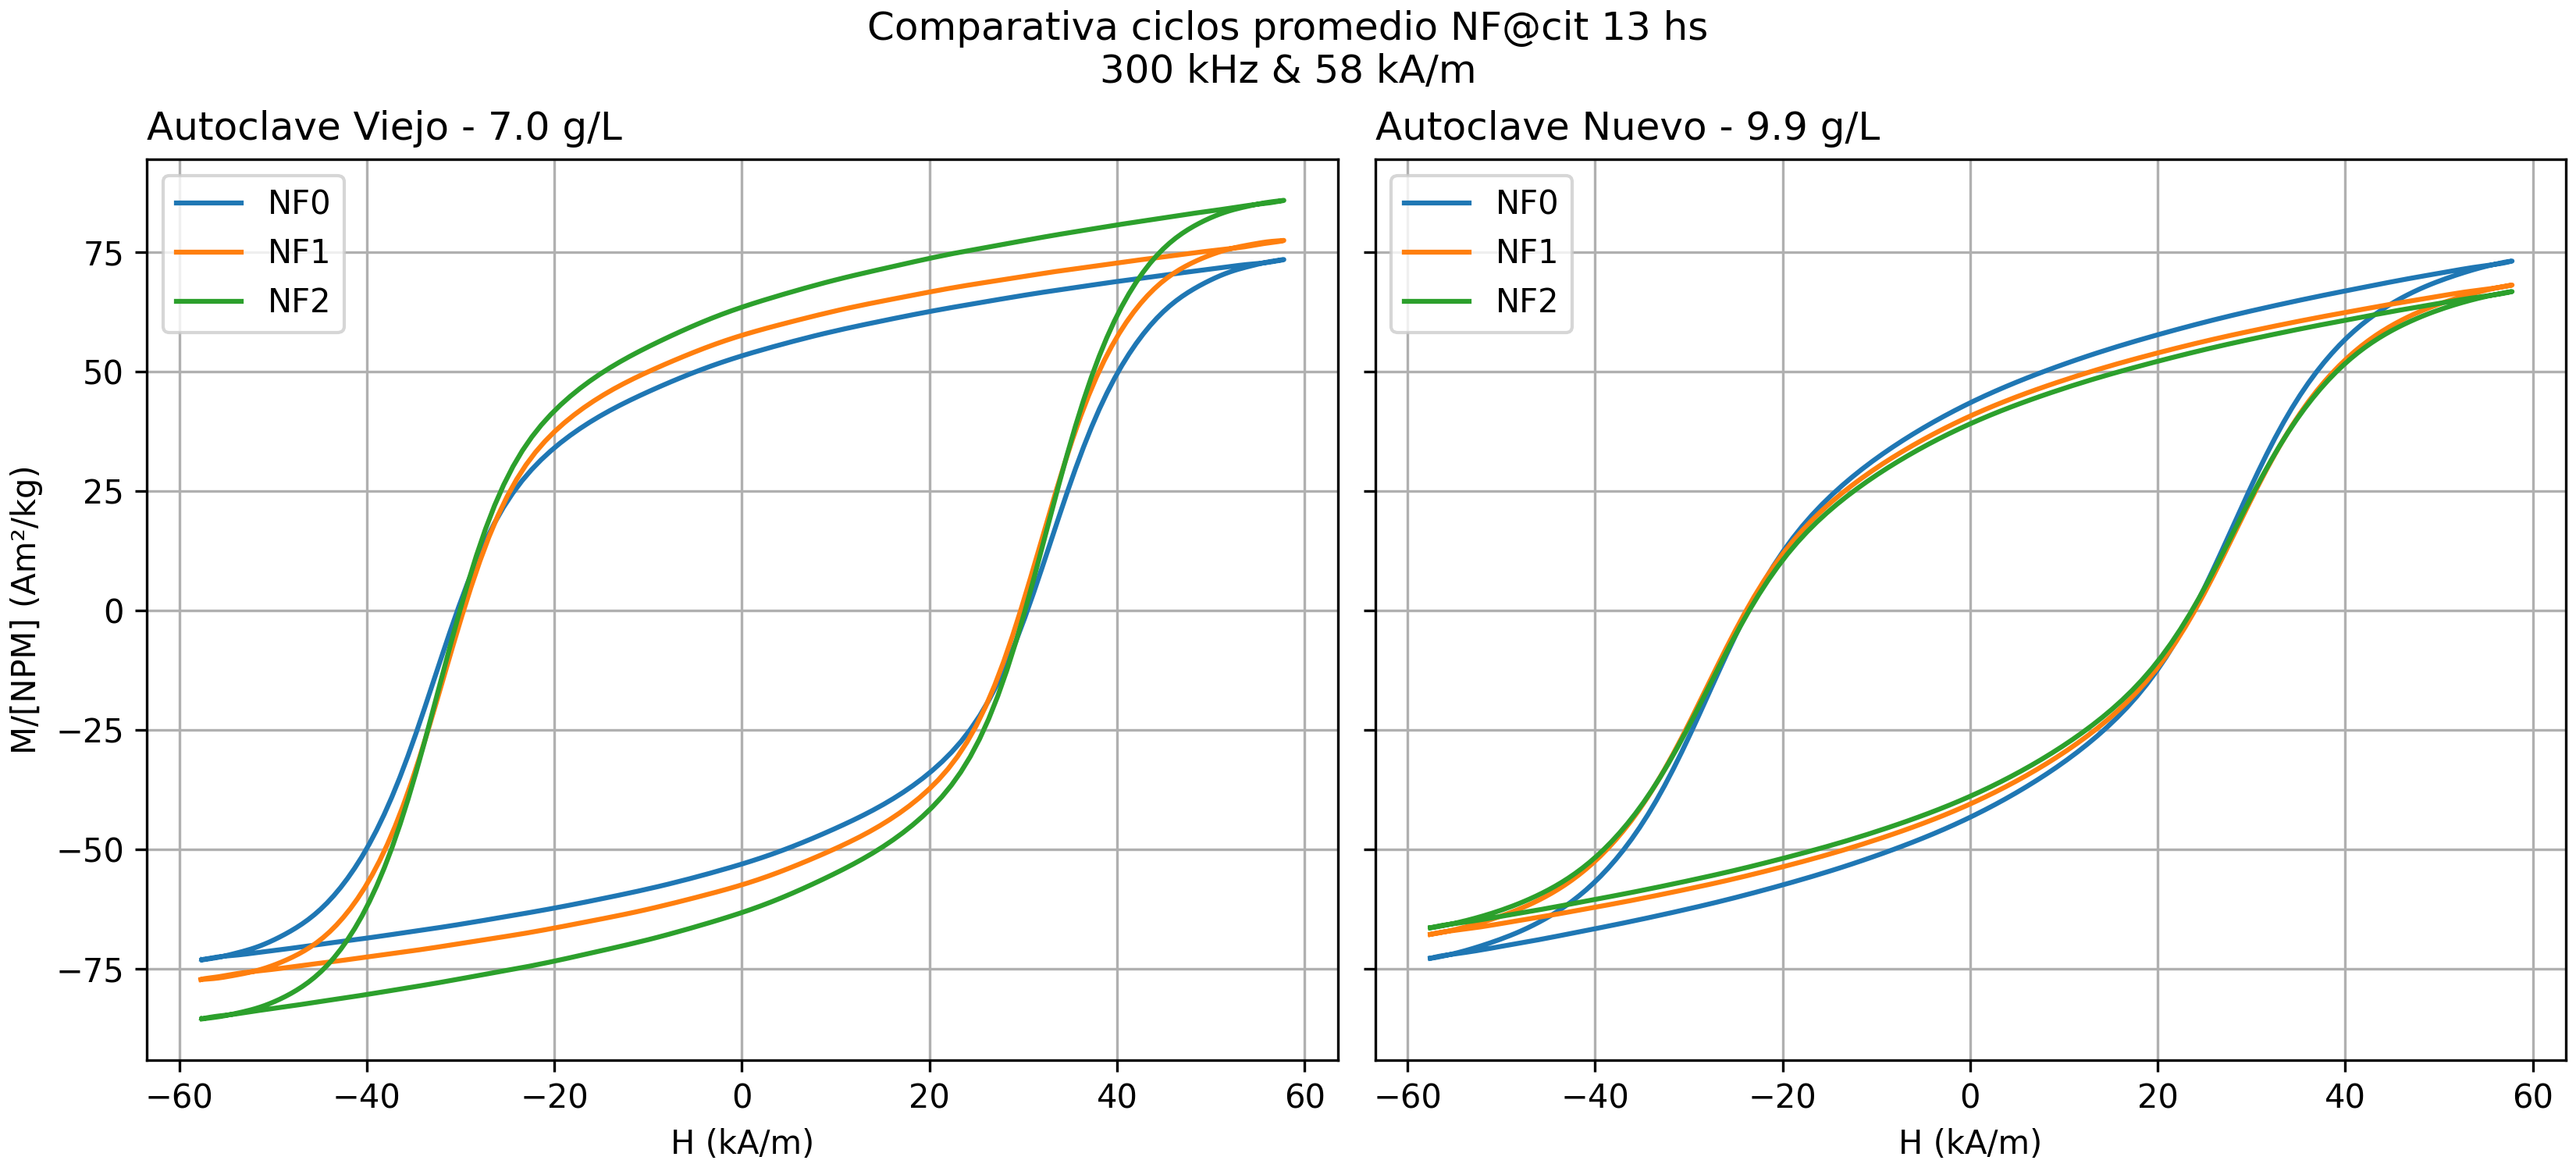
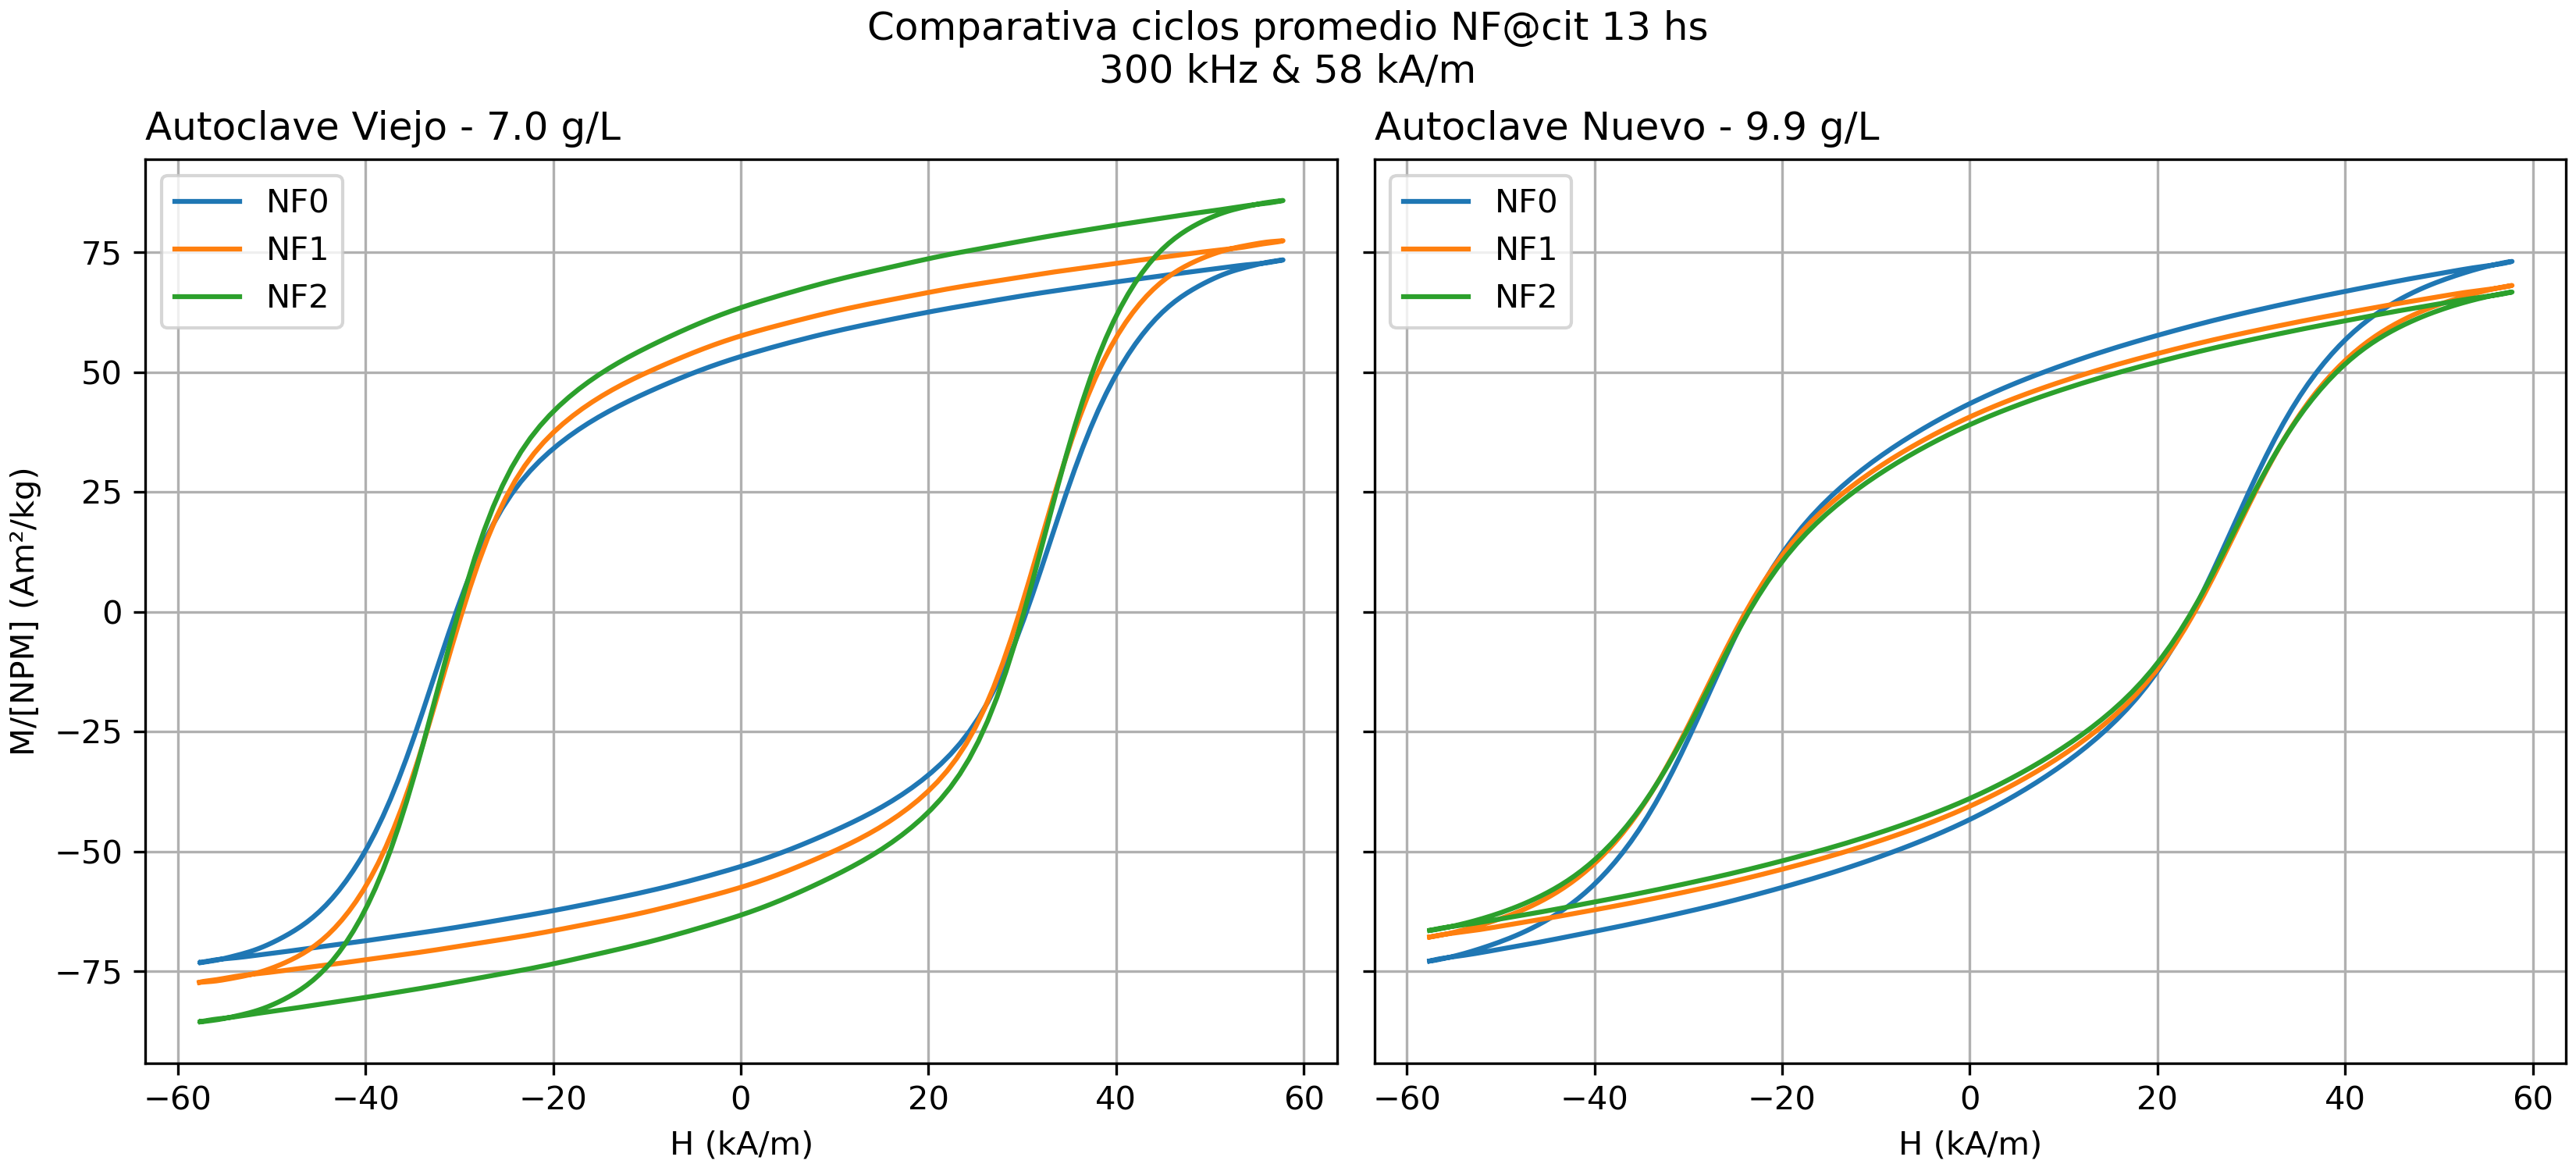
aNALISIS Y COMPARATIVAS LISTAS

diff --git a/comparativa_NF_13h_260421.py b/comparativa_NF_13h_260421.py
@@ -197,9 +197,13 @@ plt.savefig('0_ciclos_promedio_norm_NF13h_AV_AN.png',dpi=300)
 #%% Importo ciclos y resultados para buena sintesis 
 # NF@cit 13 hs - 260409
 sintesis_buena = '260409 buena'
-ciclos_13_buena = glob("../260410_ESAR_c_Temp_NF-cit_13h_260409/152dA/**/*ciclo_promedio_H_M.txt",recursive=True)
-resultados_13_buena = glob("../260410_ESAR_c_Temp_NF-cit_13h_260409/152dA/**/*resultados.txt",recursive=True)
+#pc portatil
+#ciclos_13_buena = glob("../260410_ESAR_c_Temp_NF-cit_13h_260409/152dA/**/*ciclo_promedio_H_M.txt",recursive=True)
+#resultados_13_buena = glob("../260410_ESAR_c_Temp_NF-cit_13h_260409/152dA/**/*resultados.txt",recursive=True)   
 
+#pc escritorio
+ciclos_13_buena = glob("../260410_NF@cit_13h_260409_ESAR_c_Temp/152dA/**/*ciclo_promedio_H_M.txt",recursive=True)
+resultados_13_buena = glob("../260410_NF@cit_13h_260409_ESAR_c_Temp/152dA/**/*resultados.txt",recursive=True)
 ciclos_13_buena.sort()
 resultados_13_buena.sort()
 conc_13_buena = 32.8 #g/L
@@ -227,8 +231,14 @@ plt.suptitle(f'Ciclos promedio NF@cit 13 hs {sintesis_buena}\n300 kHz & 58 kA/m'
 #%% Importo ciclos y resultados para sintesis mala
 # NF@cit 13 hs - 260409
 sintesis_mala = '260330 mala'
-ciclos_13_mala = glob("../260406_ESAR_c_Temp_NF-cit_13h_260330/57_150/**/*ciclo_promedio_H_M.txt",recursive=True)
-resultados_13_mala = glob("../260406_ESAR_c_Temp_NF-cit_13h_260330/57_150/**/*resultados.txt",recursive=True)
+# pc portatil
+# ciclos_13_mala = glob("../26040
+# 6_ESAR_c_Temp_NF-cit_13h_260330/57_150/**/*ciclo_promedio_H_M.txt",recursive=True)
+# resultados_13_mala = glob("../260406_ESAR_c_Temp_NF-cit_13h_260330/57_150/**/*resultados.txt",recursive=True)
+
+# pc escritorio
+ciclos_13_mala = glob("../260406_NF@cit_13h_260330_ESAR_c_Temp/57_150/**/*ciclo_promedio_H_M.txt",recursive=True)
+resultados_13_mala = glob("../260406_NF@cit_13h_260330_ESAR_c_Temp/57_150/**/*resultados.txt",recursive=True)
 
 ciclos_13_mala.sort()
 resultados_13_mala.sort()
@@ -256,19 +266,21 @@ ax.legend(loc='upper left')
 plt.suptitle(f'Ciclos promedio NF@cit 13 hs {sintesis_mala}\n300 kHz & 58 kA/m')          
 
 #%% COMPARO LAS 4 SINTESIS en grafico 2x2 
-# primero extraigo SAR y tau de resultados para cada sintesis
+#%% primero extraigo SAR y tau de resultados para cada sintesis
 def extraer_SAR_tau(resultados):
     SAR = []
     tau = []
+    Hc = []
     for res in resultados:
         meta,_,_,_,_,_,_,_,_,_,_,_,_,_,_ = lector_resultados(res)   
         SAR.append(meta['SAR_W/g'])
-        tau.append(meta['tau_ns']) 
-    return SAR, tau
-SAR_13_AV, tau_13_AV = extraer_SAR_tau(resultados_13_AV)
-SAR_13_AN, tau_13_AN = extraer_SAR_tau(resultados_13_AN)
-SAR_13_buena, tau_13_buena = extraer_SAR_tau(resultados_13_buena)
-SAR_13_mala, tau_13_mala = extraer_SAR_tau(resultados_13_mala)    
+        tau.append(meta['tau_ns'])
+        Hc.append(meta['Hc_kA/m']) 
+    return SAR, tau, Hc
+SAR_13_AV, tau_13_AV, Hc_13_AV = extraer_SAR_tau(resultados_13_AV)
+SAR_13_AN, tau_13_AN, Hc_13_AN = extraer_SAR_tau(resultados_13_AN)
+SAR_13_buena, tau_13_buena, Hc_13_buena = extraer_SAR_tau(resultados_13_buena)
+SAR_13_mala, tau_13_mala, Hc_13_mala = extraer_SAR_tau(resultados_13_mala)    
 #%% Ploteo comparativo de las 4 sintesis en grafico 2x2, normalizando por concentracion y con SAR en la leyenda
 
 fig5 , axs = plt.subplots(2, 2, figsize=(12, 10), constrained_layout=True, sharex=True, sharey=True)
@@ -306,34 +318,73 @@ for a in [axs[1, 0], axs[1, 1]]:
 for a in [axs[0, 0], axs[1, 0]]:
     a.set_ylabel('M/[NPM] (Am²/kg)') 
 plt.suptitle(f'Comparativa sintesis NF@cit 13 hs\n300 kHz & 58 kA/m')
-# %% ploteo comparativo de errorbars de tau
+#%% Agrego 1er sintesis de 13 hs
+# NF@cit 13 hs - 260409
+sintesis_primera = '260306 primera'
+#pc portatil
+#ciclos_13_primera = glob("../260410_ESAR_c_Temp_NF-cit_13h_260409/152dA/**/*ciclo_promedio_H_M.txt",recursive=True)
+#resultados_13_primera = glob("../260410_ESAR_c_Temp_NF-cit_13h_260409/152dA/**/*resultados.txt",recursive=True)   
 
+#pc escritorio
+ciclos_13_primera = glob("../260306_NF@cit_8_13_18_hs_260306_ESAR_c_Temp/NF13hs/150dA/**/*ciclo_promedio_H_M.txt",recursive=True)
+resultados_13_primera = glob("../260306_NF@cit_8_13_18_hs_260306_ESAR_c_Temp/NF13hs/150dA/**/*resultados.txt",recursive=True)
+ciclos_13_primera.sort()
+resultados_13_primera.sort()
+conc_13_primera = 26.7 #g/L
+
+for p in ciclos_13_primera:
+    print('  ',p)
+
+for res in resultados_13_primera:
+    print('  ',res)
+print('-'*50)   
+# ploteo
+
+fig02, ax =plt.subplots(1,1,figsize=(6,5),constrained_layout=True)  
+ax.set_ylabel('M (A/m)')
+ax.set_title(f'NF@cit 13 hs - {conc_13_primera:.1f} g/L',loc='left')      
+for i,e in enumerate(ciclos_13_primera):
+    if '150dA' in e:
+        _,_,_, H_13,M_13,_ = lector_ciclos(ciclos_13_primera[i])
+        ax.plot(H_13/1000,M_13,'-',label=f'NF{i}')
+ax.grid()
+ax.set_xlabel('H (kA/m)')
+ax.legend(loc='upper left')
+plt.suptitle(f'Ciclos promedio NF@cit 13 hs {sintesis_primera}\n300 kHz & 58 kA/m')          
+
+#extraigo ESAR, tau y Hc de la primera sintesis
+#saco ultimo dato de res por conveniencia estetica en los graficos. Los resultados son casi iguales
+resultados_13_primera.pop(-1)
+ciclos_13_primera.pop(-1)
+SAR_13_primera, tau_13_primera, Hc_13_primera = extraer_SAR_tau(resultados_13_primera)  
+# %% ploteo comparativo de errorbars de ESAR
 cuadro = '$f=300$ kHz\n$H_0=58$ kA/m'
-categorias = [sintesis_AV, sintesis_AN, sintesis_buena, sintesis_mala]
-
-
+categorias = ['260306\nprimera','260409\nmala','260409\nbuena','260421\nAutoclave Viejo', '260421\nAutoclave Nuevo']
 x = np.arange(len(categorias))
 
-fig, ax = plt.subplots(figsize=(8,5),constrained_layout=True)
+fig1, ax = plt.subplots(figsize=(9,5),constrained_layout=True)
+
 sep = 0.25
 
-for i,s in enumerate(SAR_13_AV):
+for i,s in enumerate(SAR_13_primera):
     ax.bar(i*sep-sep, s.n, yerr=s.s, width=0.2, capsize=5, color='C0')
 
-for i,s in enumerate(SAR_13_AN):
-    ax.bar(1+i*sep-sep, s.n, yerr=s.s, width=0.2, capsize=5, color='C1')
+for i,s in enumerate(SAR_13_mala):
+    ax.bar(1+i*sep-sep, s.n, yerr=s.s, width=0.2, capsize=5, color='C3')
 
 for i,s in enumerate(SAR_13_buena):
     ax.bar(2+i*sep-sep, s.n, yerr=s.s, width=0.2, capsize=5, color='C2')
 
-for i,s in enumerate(SAR_13_mala):
-    ax.bar(3+i*sep-sep, s.n, yerr=s.s, width=0.2, capsize=5, color='C3')
+for i,s in enumerate(SAR_13_AV):
+    ax.bar(3+i*sep-sep, s.n, yerr=s.s, width=0.2, capsize=5, color='C1')
+
+for i,s in enumerate(SAR_13_AN):
+    ax.bar(4+i*sep-sep, s.n, yerr=s.s, width=0.2, capsize=5, color='C4')
 
 
 ax.set_xticks(x)
 ax.set_xticklabels(categorias)
-ax.set_ylabel('ESAR')
-ax.set_xlabel('Categoría')
+ax.set_ylabel('ESAR (W/g)')
 ax.set_title('ESAR NF@cit 13 hs - Comparativa de síntesis')
 ax.grid(axis='y', alpha=0.3)
 
@@ -341,5 +392,125 @@ ax.text(0.9,0.9,cuadro, transform=ax.transAxes,
         va='top', ha='center', fontsize=12,
         bbox=dict(alpha=0.8,facecolor='white'))
 plt.show()
+#%% ploteo comparativo de errorbars de tau
+fig2, ax = plt.subplots(figsize=(9,5),constrained_layout=True)
 
-#%%
+sep = 0.25
+
+for i,s in enumerate(tau_13_primera):
+    ax.bar(i*sep-sep, s.n, yerr=s.s, width=0.2, capsize=5, color='C0')
+
+for i,s in enumerate(tau_13_mala):
+    ax.bar(1+i*sep-sep, s.n, yerr=s.s, width=0.2, capsize=5, color='C3')
+
+for i,s in enumerate(tau_13_buena):
+    ax.bar(2+i*sep-sep, s.n, yerr=s.s, width=0.2, capsize=5, color='C2')
+
+for i,s in enumerate(tau_13_AV):
+    ax.bar(3+i*sep-sep, s.n, yerr=s.s, width=0.2, capsize=5, color='C1')
+
+for i,s in enumerate(tau_13_AN):
+    ax.bar(4+i*sep-sep, s.n, yerr=s.s, width=0.2, capsize=5, color='C4')
+
+ax.set_xticks(x)
+ax.set_xticklabels(categorias)
+ax.set_ylabel(r'$\tau$ (ns)')
+#ax.set_xlabel('Categoría')
+ax.set_title(r'$\tau$ NF@cit 13 hs - Comparativa de síntesis')
+ax.grid(axis='y', alpha=0.3)
+
+ax.text(0.9,0.9,cuadro, transform=ax.transAxes, 
+        va='top', ha='center', fontsize=12,
+        bbox=dict(alpha=0.8,facecolor='white'))
+plt.show()
+#%% Idem Hc
+fig3, ax = plt.subplots(figsize=(9,5),constrained_layout=True)
+
+sep = 0.25
+for i,s in enumerate(Hc_13_primera):
+    ax.bar(i*sep-sep, s.n, yerr=s.s, width=0.2, capsize=5, color='C0')
+
+for i,s in enumerate(Hc_13_mala):
+    ax.bar(1+i*sep-sep, s.n, yerr=s.s, width=0.2, capsize=5, color='C3')
+
+for i,s in enumerate(Hc_13_buena):
+    ax.bar(2+i*sep-sep, s.n, yerr=s.s, width=0.2, capsize=5, color='C2')
+
+for i,s in enumerate(Hc_13_AV):
+    ax.bar(3+i*sep-sep, s.n, yerr=s.s, width=0.2, capsize=5, color='C1')
+
+for i,s in enumerate(Hc_13_AN):
+    ax.bar(4+i*sep-sep, s.n, yerr=s.s, width=0.2, capsize=5, color='C4')
+
+
+ax.set_xticks(x)
+ax.set_xticklabels(categorias)
+ax.set_ylabel('H$_c$ (kA/m)')
+ax.set_title('H$_c$ NF@cit 13 hs - Comparativa de síntesis')
+ax.grid(axis='y', alpha=0.3)
+
+ax.text(0.9,0.9,cuadro, transform=ax.transAxes, 
+        va='top', ha='center', fontsize=12,
+        bbox=dict(alpha=0.8,facecolor='white'))
+plt.show()
+#%% Salvo figs
+
+fig1.savefig('1_ESAR_comparativa_sintesis_NF13h.png',dpi=300)
+fig2.savefig('2_tau_comparativa_sintesis_NF13h.png',dpi=300)
+fig3.savefig('3_Hc_comparativa_sintesis_NF13h.png',dpi=300)
+# %% Comparativa 1x5 de todos los ciclos promedio normalizados por concentracion, con SAR en la leyenda
+
+#%% Ploteo comparativo en 1x5 (incluyendo síntesis primera)
+
+fig, axs = plt.subplots(1, 5, figsize=(21, 5), constrained_layout=True, sharex=True, sharey=True)
+
+# Títulos
+axs[0].set_title(f'{sintesis_primera} - {conc_13_primera:.1f} g/L', loc='left')
+axs[1].set_title(f'{sintesis_mala} - {conc_13_mala:.1f} g/L', loc='left')
+axs[2].set_title(f'{sintesis_buena} - {conc_13_buena:.1f} g/L', loc='left')
+axs[3].set_title(f'{sintesis_AV} - {conc_13_AV:.1f} g/L', loc='left')
+axs[4].set_title(f'{sintesis_AN} - {conc_13_AN:.1f} g/L', loc='left')
+
+
+# --- PRIMERA ---
+for h, j in enumerate(ciclos_13_primera):
+    if '150dA' in j:
+        _, _, _, H_13, M_13, _ = lector_ciclos(j)
+        axs[0].plot(H_13/1000, M_13/conc_13_primera, '-', label=f'{SAR_13_primera[h]:.3uS}')
+
+# --- MALA ---
+for i, e in enumerate(ciclos_13_mala):
+    if '150dA' in e:
+        _, _, _, H_13, M_13, _ = lector_ciclos(e)
+        axs[1].plot(H_13/1000, M_13/conc_13_mala, '-', label=f'{SAR_13_mala[i]:.3uS}')
+
+# --- BUENA ---
+for i, e in enumerate(ciclos_13_buena):
+    if '152dA' in e:
+        _, _, _, H_13, M_13, _ = lector_ciclos(e)
+        axs[2].plot(H_13/1000, M_13/conc_13_buena, '-', label=f'{SAR_13_buena[i]:.3uS}')
+# --- AV ---
+for i, e in enumerate(ciclos_13_AV):
+    if '152dA' in e:
+        _, _, _, H_13, M_13, _ = lector_ciclos(e)
+        axs[3].plot(H_13/1000, M_13/conc_13_AV, '-', label=f'{SAR_13_AV[i]:.3uS}')
+
+# --- AN ---
+for i, e in enumerate(ciclos_13_AN):
+    if '152dA' in e:
+        _, _, _, H_13, M_13, _ = lector_ciclos(e)
+        axs[4].plot(H_13/1000, M_13/conc_13_AN, '-', label=f'{SAR_13_AN[i]:.3uS}')
+
+
+
+# Formato común
+for ax in axs:
+    ax.grid()
+    ax.legend(title='SAR (W/g)', loc='upper left', frameon=True, shadow=True)
+
+# Etiquetas (solo donde corresponde para no repetir)
+axs[0].set_ylabel('M/[NPM] (Am²/kg)')
+for ax in axs:
+    ax.set_xlabel('H (kA/m)')
+    
+plt.savefig('0_comparativa_ciclos_promedio_NF13h_primera_mala_buena_AV_AN.png',dpi=300)